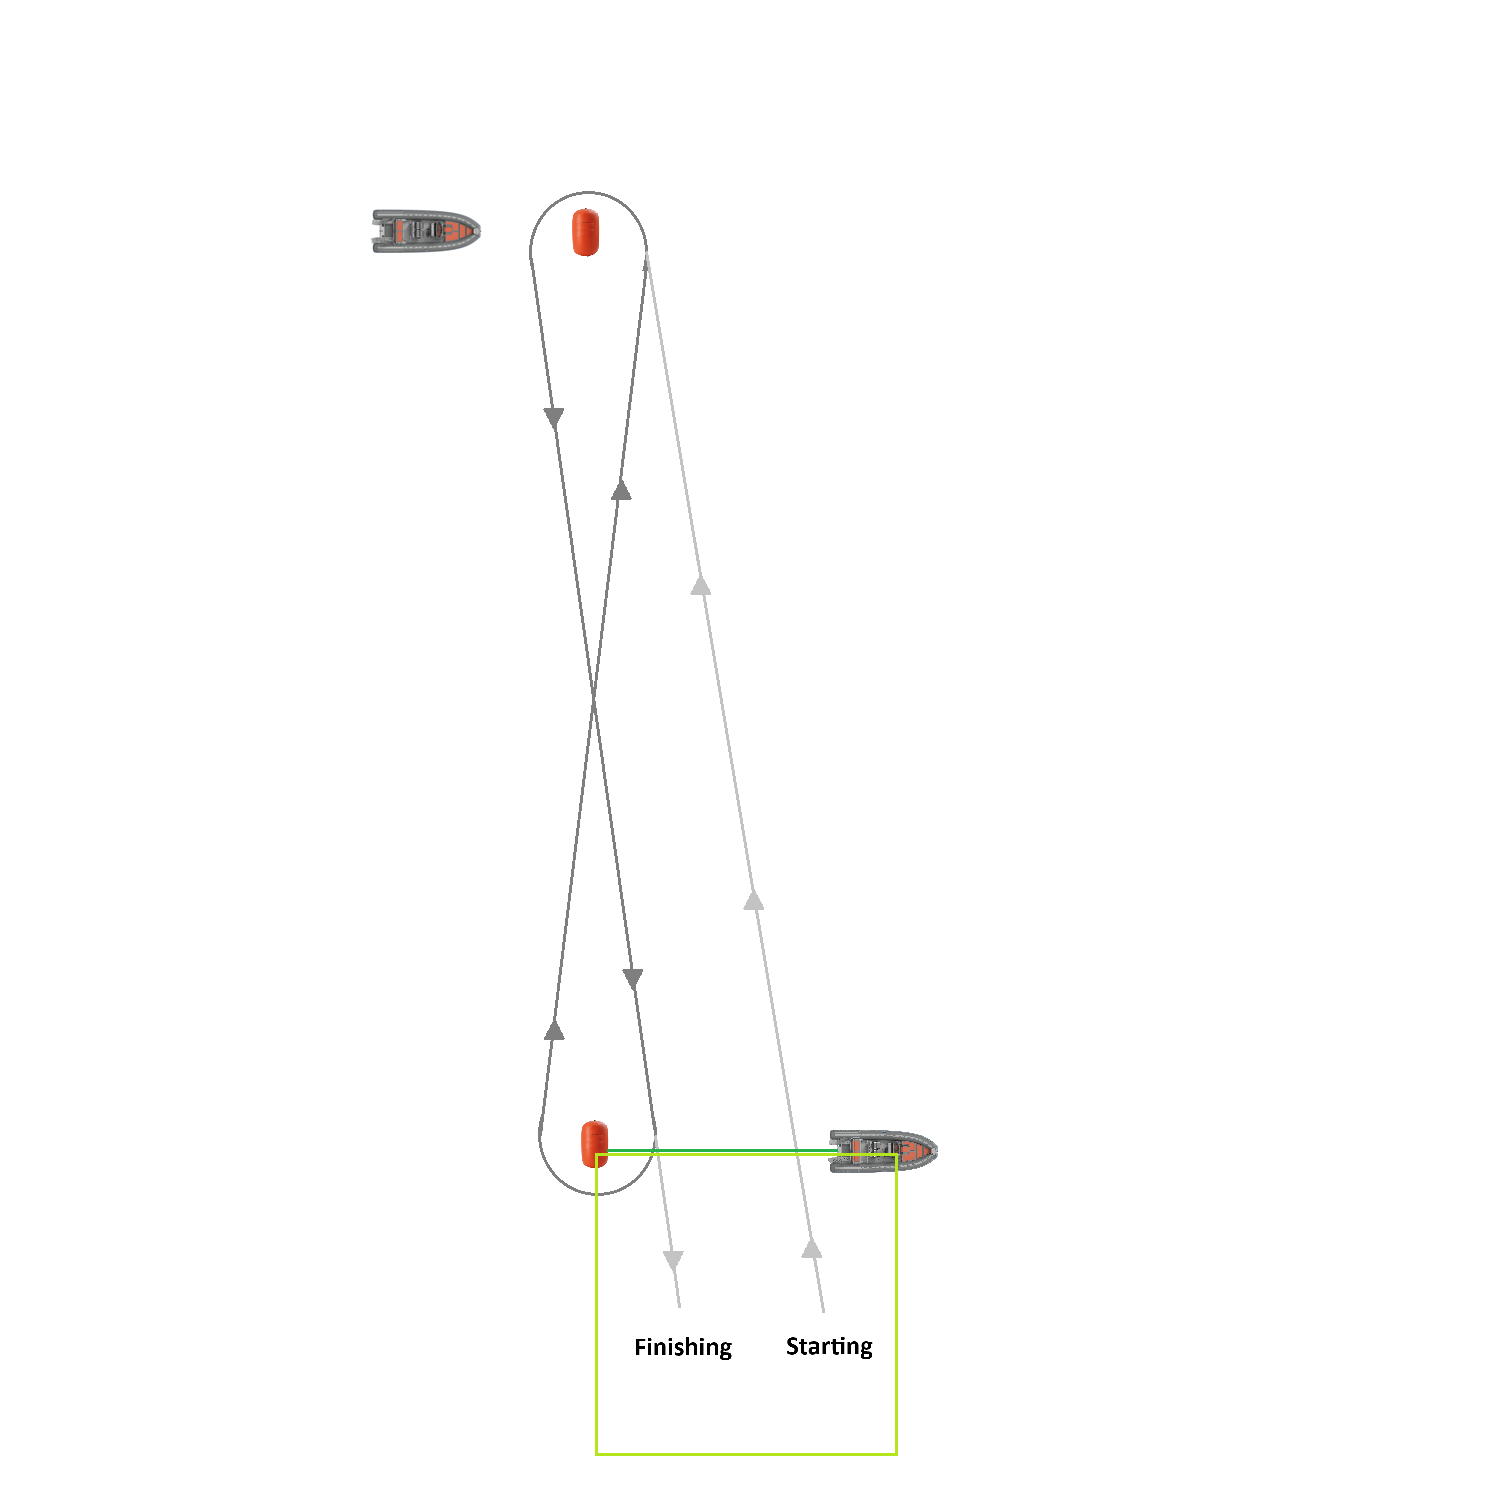
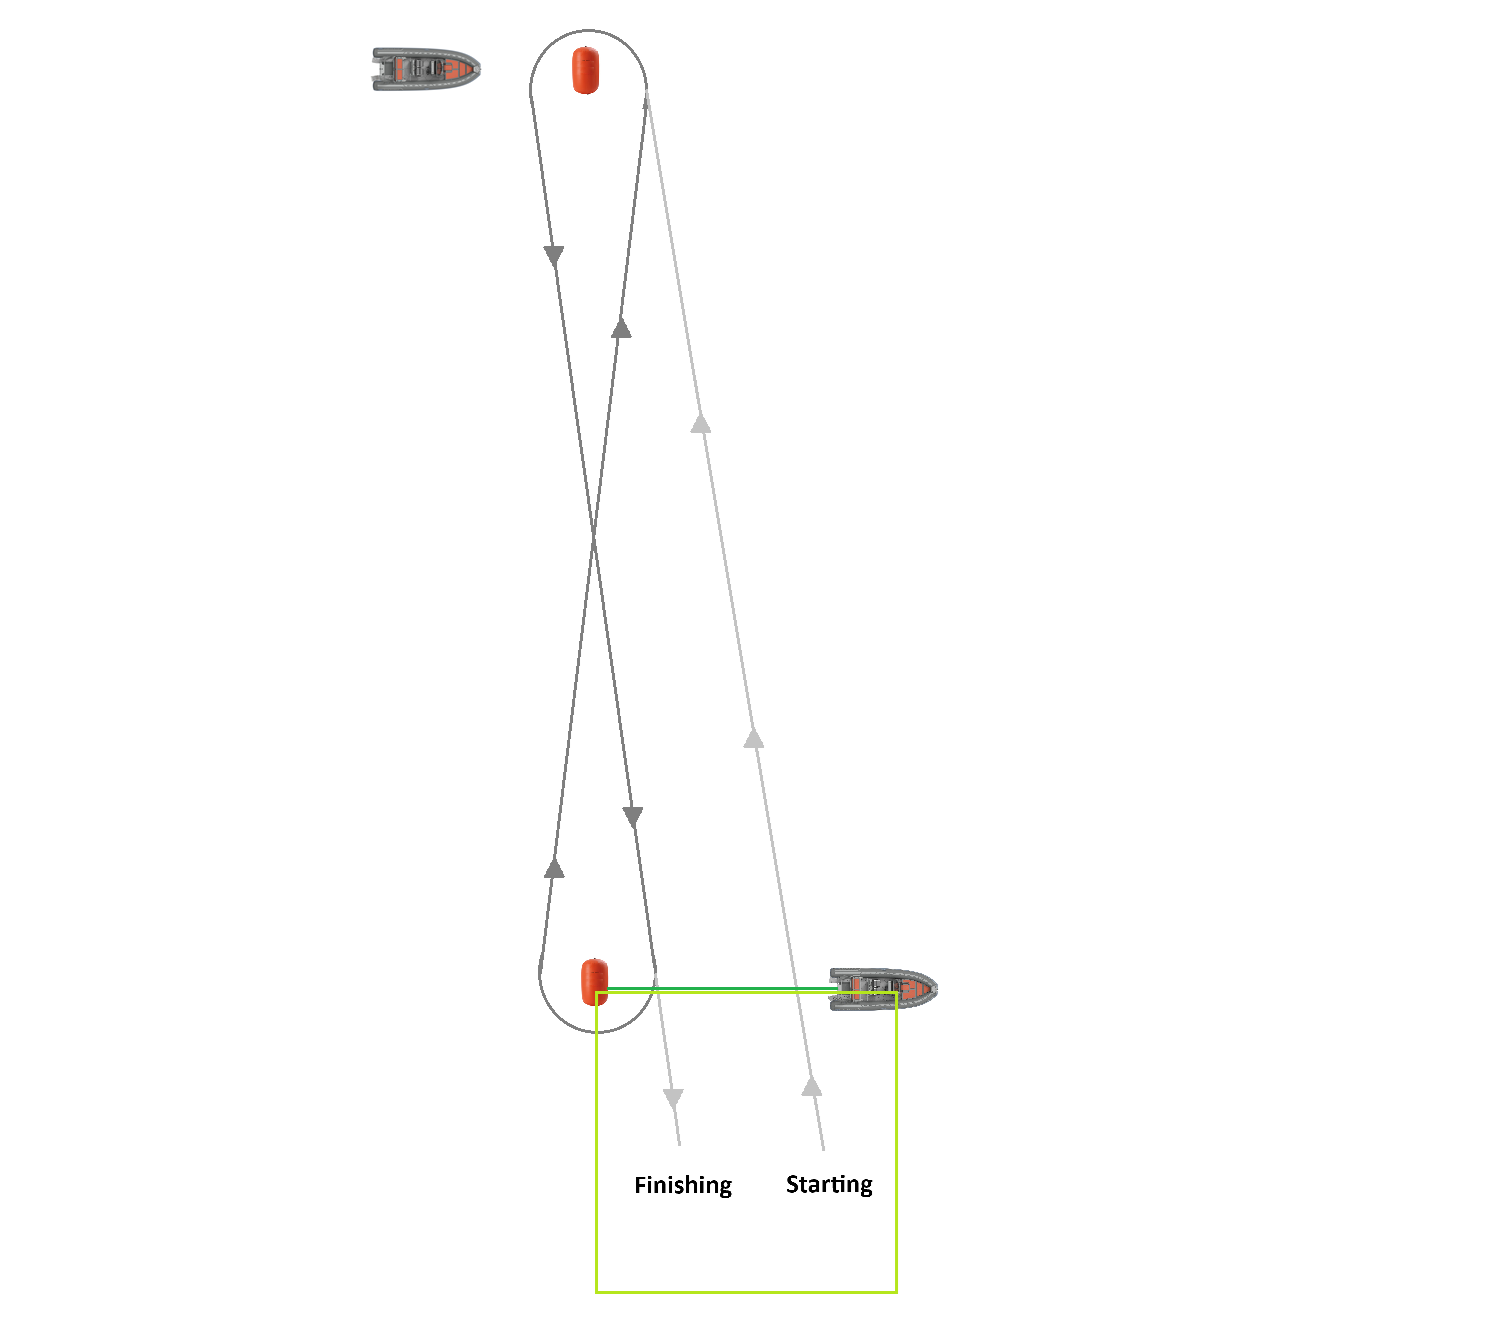
First draft of approaches for UKWA hour classic

diff --git a/docs/hour-classic/README.md b/docs/hour-classic/README.md
@@ -1,0 +1,86 @@
+## UKWA Hour Classic
+
+### Overview
+
+- The race uses a "figure of eight" course, with two buoys approximately 1 km apart.
+- The race starts with a rabbit start, where a gate opens between the buoy and the boat.
+- The race finishes after an hour, but competitors get to compete their current lap.
+- The riders should aim to complete as many laps as possible!
+
+![templaye](img/template-50pc.png)
+
+Results are based on the total number of completed laps and the time taken. This example is from the hour classic at Torbole in 2024.
+
+![torbole-2024](img/torbole-2024.png)
+
+### GPS Assistance
+
+In principle the UKWA event could be run using the Motion GPS devices that belong to Weymouth Speed Week. Extracting data from these devices is straightforward, but some bespoke software would be required to process the results.
+
+It should be assumed that the buoys will drift over time, and that the distance between them may change. The following sections describe a number of different approaches / algorithms that have been considered as possibilities, varying in complexity.
+
+The most comprehensive (but complex) approach was conceived of first. The subsequent approaches were subsequent ideas that are far less onerous in terms of complexity, and development / testing.
+
+
+
+#### Approach 1
+
+The first possible approach requires a Motion GPS on each of the buoys, recording their position during every second of the race. The general idea is that gybes can be accurately detected for a rider passing though zones A, B, C, D. Individual finish times can also be established as the rider enters the appropriate zone(s) in the vicinity of the finish line.
+
+![approach-1-50pc](img/approach-1-50pc.png)
+
+This is the most complex approach that one might choose to implement, but most comprehensive. The ever changing orientation of the course, and application of adaptive geofencing would work really well, but requires a significant amount development + testing.
+
+Additionally, there is also the requirement for Motion GPS devices to be mounted on top of both buoys, pointing upwards for a clear sky view. If either Motion GPS were to malfunction (e.g. not record any data) then it would be impossible to generate any results.
+
+
+
+#### Approach 2
+
+The second approach also requires a Motion GPS on both buoys, recording their position during every second of the race. Unlike the first approach, this one simply uses proximity checks to determine when the rider is in the proximity of each buoy, not comprehensive gybe detection. The boat crews would therefore need to keep an eye out for any cheating, and make a note of the final finishing positions.
+
+![approach-2-50pc](img/approach-2-50pc.png)
+
+This approach is a lot simpler than the first one, but also has the requirement for a Motion GPS on top of both buoys, pointing upwards for a clear sky view. If either device were to malfunction (e.g. not record any data) then it would be impossible to generate any results. It will also be reliant on the boat crews keeping an eye out for cheating at the gybe marks.
+
+
+
+#### Approach 3
+
+The third approach dispenses with the idea of a Motion GPS on the far buoy. It relies upon one Motion GPS on the boat, and another on the start / finish buoy. The general idea is to detect completed laps as people enter the green box through the use of adaptive geofencing. In simple terms, automatically adjusting the green box according to the location of the boat and the buoy. This is not nearly so complex as the first approach with comprehensive gybe detection, but still a lot more complex that the simple proximity tests of the second approach.
+
+![approach-3-50pc](img/approach-3-50pc.png)
+
+Approach 3 would provide accurate finishing times and somewhat simpler to develop + test than the approach 1, but still rather more complex than approach 2. It also requires a Motion GPS to be mounted on top of the first buoy, which may not be straightforward. It will still be reliant on the boat crews keeping an eye out for cheating at the gybe marks.
+
+
+
+#### Approach 4
+
+The final approach attempts to address some of the risks and complexities of the first three ideas. The start / finish boat can have a Motion GPS mounted so the device is secure, and has a clear sky view. A second Motion GPS can serve as backup, mitigating the risk(s) of data loss. It is very unlikely there would be any issue capturing the location of the start / finish boat.
+
+The boat at the farthest buoy would need to keep an eye out for any cheating, but beyond a certain distance from the start / finish boat would be regarded as Zone A. It is when the rider re-enters zone C that they are deemed to have completed a lap, and it will be up to the boat crew to record the final order of finishers.
+
+![approach-4-50pc](img/approach-4-50pc.png)
+
+
+
+The radius of Zone C should be slightly larger than the distance between the start / finish boat and the buoy. Provisional results can be produced based on the times that riders enter Zone C on their final lap and where necessary, manually adjusted to match the order recorded by the crew. The start / finish boat should be relatively close to the buoy, so that Zone C can have a radius of around 100 meters.
+
+There are two big advantages to this particular approach. It is far more practical because the buoys do not need a Motion GPS attached and facing upwards. Recording the position of the start / finish boat is far more practical and the risks of technical issues are far lower. Additionally the development + testing effort is significantly lower than the other ideas.
+
+In essence, throughout the race each rider need only have the distance between their current location and the start / finish boat calculated. Determination of their lap times is based on entering Zone C, and they have to enter Zone A before another lap can be counted. It's a really simple algorithm to implement and does not require nearly so much development + testing effort.
+
+
+
+### Summary
+
+If the Motion GPS devices from Weymouth Speed Week were to be used for a UKWA hour classic, then the most practical solution would be as follows:
+
+1. Attach two Motion GPS devices to the start / finish boat.
+2. Use existing software to download data from the Motion GPS devices worn by riders.
+3. Implement approach 4 to rank riders based on the number of laps and their approximate finish time.
+4. Manually adjust the rankings where necessary, based on the finishing positions recorded by the boat crew.
+5. Rankings should include the total distance for each rider, serving as a sanity check of the finishing positions.
+
+It's still not an insignificant task to developer + test this system, but it is perhaps the most pragmatic approach!
